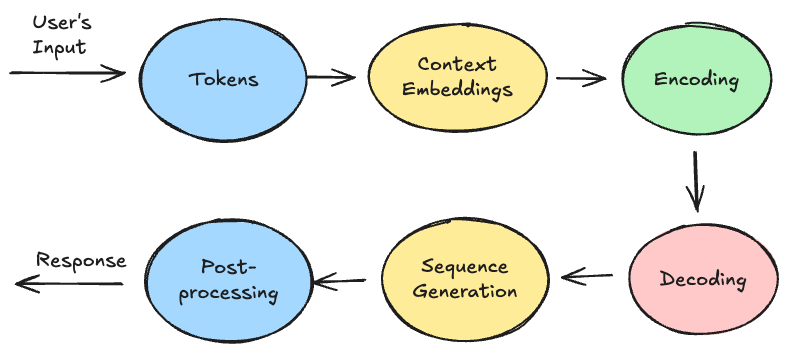
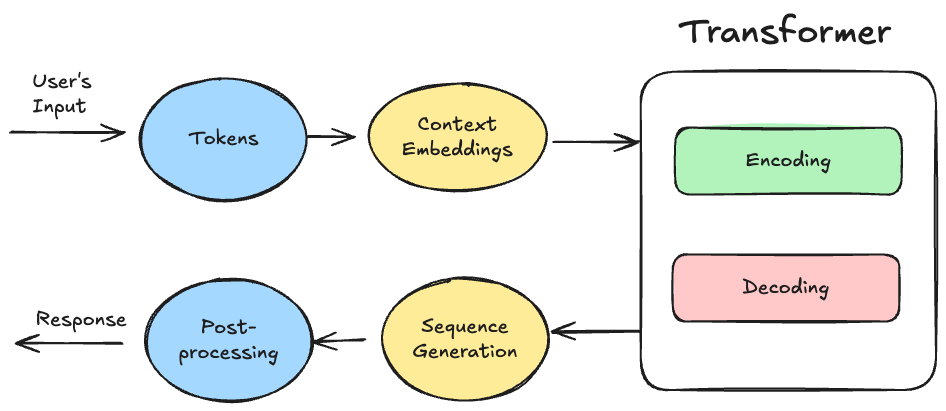
update ai workshop, modules 1, 2

diff --git a/ai-workshop-module-2/index.html b/ai-workshop-module-2/index.html
@@ -181,16 +181,6 @@ This process of cataloging pieces of a textual sequence is called **tokenizatio
 </aside></script></section><section data-markdown><script type="text/template"><!-- .slide: class="drop" -->
 <div class="" style="position: absolute; left: 0px; top: 0px; height: 900px; width: 1440px; min-height: 900px; display: flex; flex-direction: column; align-items: center; justify-content: center" absolute="true">
 
-### Practice time
-
-<img src="education-plan/Module_2/imgs/jupyter-logo.png" alt="" style="width: 500px; object-fit: fill">
-</div>
-
-<aside class="notes"><p>Link: <a href="http://localhost:8888/notebooks/examples/tokenization-embeddings.ipynb#Chunks-tokenezation">http://localhost:8888/notebooks/examples/tokenization-embeddings.ipynb#Chunks-tokenezation</a>
-Show the process of text tokenization</p>
-</aside></script></section><section data-markdown><script type="text/template"><!-- .slide: class="drop" -->
-<div class="" style="position: absolute; left: 0px; top: 0px; height: 900px; width: 1440px; min-height: 900px; display: flex; flex-direction: column; align-items: center; justify-content: center" absolute="true">
-
 ### What’s the difference between tokens and characters?
 
 > According to the ChatGPT LLM tokenizer, some general rules of thumb for defining tokens are that one token generally corresponds to ~4 characters of text for common English text, translating to roughly ¾ of a word (so 100 tokens ~= 75 words).
@@ -204,21 +194,22 @@ Show the process of text tokenization</p>
 </div></script></section><section data-markdown><script type="text/template"><!-- .slide: class="drop" -->
 <div class="" style="position: absolute; left: 0px; top: 0px; height: 900px; width: 1440px; min-height: 900px; display: flex; flex-direction: column; align-items: center; justify-content: center" absolute="true">
 
+### Practice time
+
+<img src="education-plan/Module_2/imgs/jupyter-logo.png" alt="" style="width: 500px; object-fit: fill">
+</div>
+
+<aside class="notes"><p>Link: <a href="http://localhost:8888/notebooks/examples/tokenization-embeddings.ipynb#Chunks-tokenezation">http://localhost:8888/notebooks/examples/tokenization-embeddings.ipynb#Chunks-tokenezation</a>
+Show the process of text tokenization</p>
+</aside></script></section><section data-markdown><script type="text/template"><!-- .slide: class="drop" -->
+<div class="" style="position: absolute; left: 0px; top: 0px; height: 900px; width: 1440px; min-height: 900px; display: flex; flex-direction: column; align-items: center; justify-content: center" absolute="true">
+
 ### What is Embedding?
 
 Embedding is a high-dimensional (768, 1536, etc) representation of data that captures the semantic meaning, relationships, and contextual information of the original input
 
 <img src="education-plan/Module_2/assets/Embeddings_1.png" alt="" style="object-fit: scale-down">
 </div></script></section><section data-markdown><script type="text/template"><!-- .slide: class="drop" -->
-<div class="" style="position: absolute; left: 0px; top: 0px; height: 900px; width: 1440px; min-height: 900px; display: flex; flex-direction: column; align-items: center; justify-content: center" absolute="true">
-
-### Practice time
-
-<img src="education-plan/Module_2/imgs/jupyter-logo.png" alt="" style="width: 500px; object-fit: fill">
-</div>
-
-<aside class="notes"><p>Show the process of text embedding</p>
-</aside></script></section><section data-markdown><script type="text/template"><!-- .slide: class="drop" -->
 <div class="" style="position: absolute; left: 0px; top: 0px; height: 900px; width: 1440px; min-height: 900px; display: flex; flex-direction: column; align-items: center; justify-content: center" absolute="true">
 
 ### What is high--dimension space?
@@ -264,7 +255,7 @@ A common way to define how 2 vectors are similar is to calculate a `cosine simil
 <img src="education-plan/Module_2/imgs/jupyter-logo.png" alt="" style="width: 500px; object-fit: fill">
 </div>
 
-<aside class="notes"><p>Show the process of text embedding</p>
+<aside class="notes"><p>Link: <a href="http://localhost:8888/notebooks/examples/tokenization-embeddings.ipynb">http://localhost:8888/notebooks/examples/tokenization-embeddings.ipynb</a></p>
 </aside></script></section><section data-markdown><script type="text/template"><!-- .slide: class="drop" -->
 <div class="" style="position: absolute; left: 0px; top: 0px; height: 900px; width: 1440px; min-height: 900px; display: flex; flex-direction: column; align-items: center; justify-content: center" absolute="true">
 
@@ -344,31 +335,17 @@ The **decoder** is responsible for generating output sequences, such as translat
 </div></script></section><section data-markdown><script type="text/template"><!-- .slide: class="drop" -->
 <div class="" style="position: absolute; left: 0px; top: 0px; height: 900px; width: 1440px; min-height: 900px; display: flex; flex-direction: column; align-items: center; justify-content: center" absolute="true">
 
-### Transformers Block Part 3
-
-<img src="education-plan/Module_2/diagrams/transformer-architecture-3.png" alt="" style="object-fit: scale-down">
-
-
-<div class="block">
-
-<!-- .element: style="font-size: 1.5rem" -->
-
-- The **encoder** reads the input sequence (e.g., a sentence in English) and outputs context-rich representations for each input token.
-- The **decoder** takes these encoder outputs and, along with its own self-attention mechanism, generates the output sequence (e.g., a translated sentence in French) step by step. It uses the encoded input sequence to inform its generation process.
-
-</div>
-</div></script></section><section data-markdown><script type="text/template"><!-- .slide: class="drop" -->
-<div class="" style="position: absolute; left: 0px; top: 0px; height: 900px; width: 1440px; min-height: 900px; display: flex; flex-direction: column; align-items: center; justify-content: center" absolute="true">
-
-### Attention Mechanism
+### Attention Mechanism 
 
 **Attention Mechanism**: The attention mechanism helps the model understand the context by assigning attention weights to each token in the sequence relative to others.
 
-[Attention Is All You Need](https://arxiv.org/pdf/1706.03762)
+[Attention Is All You Need 2017](https://arxiv.org/pdf/1706.03762)
 </div></script></section><section data-markdown><script type="text/template"><!-- .slide: class="drop" -->
 <div class="" style="position: absolute; left: 0px; top: 0px; height: 900px; width: 1440px; min-height: 900px; display: flex; flex-direction: column; align-items: center; justify-content: center" absolute="true">
 
 ### Attention Mechanism
+
+The main goal is to capture contextual information and relationships between words.
 
 <img src="education-plan/Module_2/assets/Attention_mechanism.png" alt="" style="width: 1000px; object-fit: fill">
 
@@ -379,6 +356,8 @@ The **decoder** is responsible for generating output sequences, such as translat
 <div class="" style="position: absolute; left: 0px; top: 0px; height: 900px; width: 1440px; min-height: 900px; display: flex; flex-direction: column; align-items: center; justify-content: center" absolute="true">
 
 ### Next word prediction
+
+Feed-forward neural network or MLP (Multilayer Perceptron) 
 
 Programmin is one ... 
 
@@ -398,6 +377,100 @@ Programmin is one ...
 | step       | < 0.01%           |
 | such       | < 0.01%           |
 | big        | < 0.01%           |
+
+</div>
+</div></script></section><section data-markdown><script type="text/template"><!-- .slide: class="drop" -->
+<div class="" style="position: absolute; left: 0px; top: 0px; height: 900px; width: 1440px; min-height: 900px; display: flex; flex-direction: column; align-items: center; justify-content: center" absolute="true">
+
+### Transformers Block Part 3
+
+<img src="education-plan/Module_2/diagrams/transformer-architecture-3.png" alt="" style="object-fit: scale-down">
+
+
+<div class="block">
+
+<!-- .element: style="font-size: 1.5rem" -->
+
+- The **encoder** reads the input sequence (e.g., a sentence in English) and outputs context-rich representations for each input token.
+- The **decoder** takes these encoder outputs and, along with its own self-attention mechanism, generates the output sequence (e.g., a translated sentence in French) step by step. It uses the encoded input sequence to inform its generation process.
+- The **encoder-decoder** attention layer helps the decoder focus on relevant parts of the input sentence.
+
+</div>
+</div></script></section><section data-markdown><script type="text/template"><!-- .slide: class="drop" -->
+<div class="" style="position: absolute; left: 0px; top: 0px; height: 900px; width: 1440px; min-height: 900px; display: flex; flex-direction: column; align-items: center; justify-content: center" absolute="true">
+
+### Encoder-only Models
+
+<div class="block">
+
+<!-- .element: style="font-size: 1.5rem; text-align: left" -->
+
+The transformer encoder architecture is used for tasks like text classification, where the model must classify a piece of text into one of several predefined categories, such as sentiment analysis, topic classification, or spam detection.
+
+ **Examples:** BERT, RoBERTa
+
+**What they can do:**
+
+- **Text classification:** Spam detection, sentiment analysis _(Input: a sentence, Output: a label like "positive" or "negative")_
+- **Named Entity Recognition (NER):** Extract entities like names, dates, locations from text.
+- **Question answering (extractive):** Given a context and a question, extract the correct answer from the context.
+
+**What they cannot do:**
+
+- **Generate text:** They cannot generate new sequences of text since they are designed to understand and encode existing text.  
+    _(Example: They can classify a sentence but cannot write a continuation of it.)_
+- **Translate text:** Since there's no decoder to generate output in another language.
+
+</div>
+</div></script></section><section data-markdown><script type="text/template"><!-- .slide: class="drop" -->
+<div class="" style="position: absolute; left: 0px; top: 0px; height: 900px; width: 1440px; min-height: 900px; display: flex; flex-direction: column; align-items: center; justify-content: center" absolute="true">
+
+### Decoder-only Models
+
+<div class="block">
+
+<!-- .element: style="font-size: 1.5rem; text-align: left" -->
+
+The transformer decoder architecture is used for tasks like language generation, where the model must generate a sequence of words based on an input prompt or context.
+
+**Examples:** GPT (Generative Pre-trained Transformer), GPT-2, GPT-3, GPT-4
+
+**What they can do:** 
+
+- **Text generation:** Generate coherent text given a prompt _(Input: a prompt like "Once upon a time", Output: a continuation like "there was a brave knight who...")_
+- **Summarization:** Summarize a given text by generating a shorter version _(Input: a paragraph, Output: a shorter summary)_
+- **Dialogue systems (chatbots):** Engage in conversations by generating appropriate responses.
+
+**What they cannot do:**
+
+- **Directly encode input for complex tasks like classification:** Decoder-only models don't inherently "understand" the entire input at once like encoder-only models. They work better when they need to generate something rather than analyze.
+- **Translate with high accuracy (compared to Encoder-Decoder models):** While they can translate text (e.g., GPT models can), they aren't as specialized for it as encoder-decoder models.
+
+</div>
+</div></script></section><section data-markdown><script type="text/template"><!-- .slide: class="drop" -->
+<div class="" style="position: absolute; left: 0px; top: 0px; height: 900px; width: 1440px; min-height: 900px; display: flex; flex-direction: column; align-items: center; justify-content: center" absolute="true">
+
+### Encoder-Decoder Models
+
+<div class="block">
+
+<!-- .element: style="font-size: 1.5rem; text-align: left" -->
+
+The transformer encoder-decoder architecture is used for tasks like language translation, where the model must take in a sentence in one language and output a sentence in another language.
+
+**Examples:** T5 (Text-To-Text Transfer Transformer), BART, Seq2Seq models with Attention
+
+**What they can do:**
+
+- **Machine Translation:** Given a sentence in one language, generate its translation in another language _(Input: "How are you?" in English, Output: "Як справи?" in Ukrainian)_
+- **Summarization:** Generate a summary of a given text _(Input: a long article, Output: a short summary)_
+- **Text generation:** Just like decoder-only models, they can generate text.
+- **Question answering (generative):** Generate answers based on given context and question.
+
+**What they cannot do:**
+
+- **Be as lightweight as encoder-only or decoder-only models:** Since they have both an encoder and a decoder, they require more memory and compute power.
+- **Generate very long sequences efficiently:** For extremely long text generation, decoder-only models (like GPT) tend to perform better.
 
 </div>
 </div></script></section><section data-markdown><script type="text/template"><!-- .slide: class="drop" -->
@@ -437,20 +510,20 @@ The whole process of LLM word prediction looks like this:
 </div></script></section><section data-markdown><script type="text/template"><!-- .slide: class="drop" -->
 <div class="" style="position: absolute; left: 0px; top: 0px; height: 900px; width: 1440px; min-height: 900px; display: flex; flex-direction: column; align-items: center; justify-content: center" absolute="true">
 
-### Sum up 
+### Sum up
 
 <div class="block">
 
 <!-- .element: style="font-size: 1.5rem" -->
 
 - **Tokenization**: The input text is split into smaller units (tokens).
-- **Embeddings**: Each token is first mapped  to an embedding vector. The initial token embeddings are passed through multiple layers of the network to create **contextual embeddings**
-- **Encoding**: The input is encoded, and relationships between tokens are processed via the **attention mechanism**.
-- **Decoding**: The model generates text sequentially, predicting one token at a time. 
+- &shy;<!-- .element: class="fragment" data-fragment-index="1" -->**Embeddings**: Each token is first mapped  to an embedding vector. The initial token embeddings are passed through multiple layers of the network to create **contextual embeddings**
+- &shy;<!-- .element: class="fragment" data-fragment-index="2" -->**Encoding**: The input is encoded, and relationships between tokens are processed via the **attention mechanism**.
+- &shy;<!-- .element: class="fragment" data-fragment-index="3" -->**Decoding**: The model generates text sequentially, predicting one token at a time. 
 	- For each token, the model outputs a probability distribution over the vocabulary
 	- **Token Selection**: Various sampling techniques (e.g., greedy search, beam search, top-k sampling, top-p sampling) are applied to choose the next token.
-- **Sequence Generation**: The selected token is added to the sequence, and the process repeats until the desired text length is achieved.
-- **Post-processing**: Optional steps for refining the output, such as grammar correction and punctuation adjustment.
+- &shy;<!-- .element: class="fragment" data-fragment-index="4" -->**Sequence Generation**: The selected token is added to the sequence, and the process repeats until the desired text length is achieved.
+- &shy;<!-- .element: class="fragment" data-fragment-index="5" -->**Post-processing**: Optional steps for refining the output, such as grammar correction and punctuation adjustment.
 
 </div>
 </div></script></section></section><section ><section data-markdown><script type="text/template"><!-- .slide: class="drop" -->
@@ -466,7 +539,7 @@ The whole process of LLM word prediction looks like this:
 
 The "size" of a Large Language Model (LLM) typically refers to the number of **parameters** it has.
 
-<img src="education-plan/Module_2/diagrams/llm-sizes.excalidraw.svg" alt="" style="width: .png | 800px; object-fit: fill">
+<img src="education-plan/Module_2/diagrams/llm-sizes.excalidraw.svg" alt="" style="width: .png | 500px; object-fit: fill">
 </div></script></section><section data-markdown><script type="text/template"><!-- .slide: class="drop" -->
 <div class="" style="position: absolute; left: 0px; top: 0px; height: 900px; width: 1440px; min-height: 900px; display: flex; flex-direction: column; align-items: center; justify-content: center" absolute="true">
 
@@ -611,6 +684,10 @@ Prompt: &quot;Please give me the recipe for curry chicken&quot;</p>
 </aside></script></section><section data-markdown><script type="text/template"><!-- .slide: class="drop" -->
 <div class="" style="position: absolute; left: 0px; top: 0px; height: 900px; width: 1440px; min-height: 900px; display: flex; flex-direction: column; align-items: center; justify-content: center" absolute="true">
 
+TODO: add Hallucinations example
+</div></script></section><section data-markdown><script type="text/template"><!-- .slide: class="drop" -->
+<div class="" style="position: absolute; left: 0px; top: 0px; height: 900px; width: 1440px; min-height: 900px; display: flex; flex-direction: column; align-items: center; justify-content: center" absolute="true">
+
 ### LLMs Hallucinations
 
 - LLMs are just trying to guess the next word with limited or no understanding of what they’re "talking about"
@@ -677,7 +754,7 @@ https://huggingface.co
 
 ### Hugging Face
 
-<img src="education-plan/Module_1/imgs/hugging-face-llama-card.png" alt="" style="object-fit: scale-down">
+<img src="education-plan/Module_1/imgs/hugging-face-llama-card.png" alt="" style="width: 1000px; object-fit: fill">
 
 
 https://huggingface.co/meta-llama/Llama-3.2-1B
@@ -689,7 +766,7 @@ https://huggingface.co/meta-llama/Llama-3.1-8B-Instruct
 
 https://huggingface.co/
 
-<img src="education-plan/Module_2/assets/Hugging_face.png" alt="" style="object-fit: scale-down">
+<img src="education-plan/Module_2/assets/Hugging_face.png" alt="" style="width: 900px; object-fit: fill">
 
 
 > "The platform where the machine learning community collaborates on models, datasets, and applications"
@@ -698,7 +775,7 @@ https://huggingface.co/
 
 ### Open AI models cost
 
-<img src="education-plan/Module_1/imgs/langsmith-preview.png" alt="" style="object-fit: scale-down">
+<img src="education-plan/Module_1/imgs/langsmith-preview.png" alt="" style="width: 1000px; object-fit: fill">
 </div></script></section></section><section  data-markdown><script type="text/template"><!-- .slide: class="drop" -->
 <div class="" style="position: absolute; left: 0px; top: 0px; height: 900px; width: 1440px; min-height: 900px; display: flex; flex-direction: column; align-items: center; justify-content: center" absolute="true">
 

diff --git a/ai-workshop-module-1/index.html b/ai-workshop-module-1/index.html
@@ -93,20 +93,25 @@
 </div></script></section><section data-markdown><script type="text/template"><!-- .slide: class="drop" -->
 <div class="" style="position: absolute; left: 0px; top: 0px; height: 900px; width: 1440px; min-height: 900px; display: flex; flex-direction: column; align-items: center; justify-content: center" absolute="true">
 
-## Disclaimer
+### Workshop Overview
 
-This course does not require a background in data engineering. Our focus is to provide developers with a ground-up knowledge of building and integrating LLM solutions
+- **Module 1:** Introduction to the AI and LLMs concepts <!-- .element: style="color: green" -->
+- &shy;<!-- .element: class="fragment" data-fragment-index="1" -->**Module 2:** LLMs architecture, characteristics, parameters; Working with Local LLMS
+- &shy;<!-- .element: class="fragment" data-fragment-index="2" -->**Module 3:** Prompt Engineering
+- &shy;<!-- .element: class="fragment" data-fragment-index="3" -->**Module 4:** Extending LLM Knowledge with External Data
+- &shy;<!-- .element: class="fragment" data-fragment-index="4" -->**Module 5:** Agents. Use LLM to choose a sequence of actions to take
+- &shy;<!-- .element: class="fragment" data-fragment-index="5" -->**Module 6:** Evaluate & Trace LLM Application with LangSmith
+- &shy;<!-- .element: class="fragment" data-fragment-index="6" -->**Module 7:** Showcase of LLM Integration into JavaScript Project
 </div></script></section><section data-markdown><script type="text/template"><!-- .slide: class="drop" -->
 <div class="" style="position: absolute; left: 0px; top: 0px; height: 900px; width: 1440px; min-height: 900px; display: flex; flex-direction: column; align-items: center; justify-content: center" absolute="true">
 
-## What this course is about
+## Disclaimer
 
-- Comprehensive overview of LLM capabilities, architecture, and applications
-- &shy;<!-- .element: class="fragment" data-fragment-index="1" -->Accelerating developer routines with LLMS: IDEs and plugins, terminal integration, local LLM execution, etc. 
-- &shy;<!-- .element: class="fragment" data-fragment-index="2" -->Mastering different prompting techniques based on real examples
-- &shy;<!-- .element: class="fragment" data-fragment-index="3" -->Building LLM-powered applications: assistants, chatbots, agents, etc.
-- &shy;<!-- .element: class="fragment" data-fragment-index="4" -->Diving into LangChain and LangGraph
-- &shy;<!-- .element: class="fragment" data-fragment-index="5" -->Tracing and evaluation of LLM applications with LangSmith
+This course does not require a background in data engineering. Our focus is to provide developers with a ground-up knowledge of building and integrating LLM solutions
+</div></script></section><section data-markdown><script type="text/template"><!-- .slide: class="drop" data-visibility="hidden" -->
+<div class="" style="position: absolute; left: 0px; top: 0px; height: 900px; width: 1440px; min-height: 900px; display: flex; flex-direction: column; align-items: center; justify-content: center" absolute="true">
+
+
 </div></script></section><section data-markdown><script type="text/template"><!-- .slide: class="drop" -->
 <div class="" style="position: absolute; left: 0px; top: 0px; height: 900px; width: 1440px; min-height: 900px; display: flex; flex-direction: column; align-items: center; justify-content: center" absolute="true">
 
@@ -133,23 +138,24 @@ This course does not require a background in data engineering. Our focus is to p
 </div>
 
 <aside class="notes"><p>TODO: add photos and a short intro</p>
-</aside></script></section></section><section ><section data-markdown><script type="text/template"><!-- .slide: class="drop" -->
-<div class="" style="position: absolute; left: 0px; top: 0px; height: 900px; width: 1440px; min-height: 900px; display: flex; flex-direction: column; align-items: center; justify-content: center" absolute="true">
-
-### Workshop Overview
-
-- **Module 1:** Introduction to the AI and LLMs concepts <!-- .element: style="color: green" -->
-- &shy;<!-- .element: class="fragment" data-fragment-index="1" -->**Module 2:** LLMs architecture, characteristics, parameters; Working with Local LLMS
-- &shy;<!-- .element: class="fragment" data-fragment-index="2" -->**Module 3:** Prompt Engineering
-- &shy;<!-- .element: class="fragment" data-fragment-index="3" -->**Module 4:** Extending LLM Knowledge with External Data
-- &shy;<!-- .element: class="fragment" data-fragment-index="4" -->**Module 5:** Agents. Use LLM to choose a sequence of actions to take
-- &shy;<!-- .element: class="fragment" data-fragment-index="5" -->**Module 6:** Evaluate & Trace LLM Application with LangSmith
-- &shy;<!-- .element: class="fragment" data-fragment-index="6" -->**Module 7:** Showcase of LLM Integration into JavaScript Project
-</div></script></section><section data-markdown><script type="text/template"><!-- .slide: class="drop" -->
+</aside></script></section></section><section  data-markdown><script type="text/template"><!-- .slide: class="drop" -->
 <div class="" style="position: absolute; left: 0px; top: 0px; height: 900px; width: 1440px; min-height: 900px; display: flex; flex-direction: column; align-items: center; justify-content: center" absolute="true">
 
 ## Module 1:  Introduction to AI and LLMs
-</div></script></section></section><section ><section data-markdown><script type="text/template"><!-- .slide: class="drop" -->
+
+Agenda
+
+- Introduction to GenAI and LLM concepts
+- &shy;<!-- .element: class="fragment" data-fragment-index="1" -->Emergent abilities of LLMs and their limitations
+- &shy;<!-- .element: class="fragment" data-fragment-index="2" -->Enhancing developer's productivity with LLM tools and integrations.
+- &shy;<!-- .element: class="fragment" data-fragment-index="3" -->ELEKS AI Policy
+</div></script></section><section ><section data-markdown><script type="text/template"><!-- .slide: class="drop" -->
+<div class="" style="position: absolute; left: 0px; top: 0px; height: 900px; width: 1440px; min-height: 900px; display: flex; flex-direction: column; align-items: center; justify-content: center" absolute="true">
+
+### GenAI
+
+<iframe src="https://elekscloud-my.sharepoint.com/personal/arsen_slyusarchuk_eleks_com/_layouts/15/embed.aspx?UniqueId=6a7c08f4-30f2-4ed8-8352-97f2fd4c9962&embed=%7B%22ust%22%3Atrue%2C%22hv%22%3A%22CopyEmbedCode%22%7D&referrer=StreamWebApp&referrerScenario=EmbedDialog.Create" width="1280" height="720" frameborder="0" scrolling="no" allowfullscreen title="Welcome Video"></iframe>
+</div></script></section><section data-markdown><script type="text/template"><!-- .slide: class="drop" -->
 <div class="" style="position: absolute; left: 0px; top: 0px; height: 900px; width: 1440px; min-height: 900px; display: flex; flex-direction: column; align-items: center; justify-content: center" absolute="true">
 
 ### What is GenAI (Generative Artificial Intelligence)
@@ -326,7 +332,7 @@ Strawberry problem
 
 > OpenAI is an American artificial intelligence research organization founded in December 2015. CEO: Sam Altman.
 
-<img src="education-plan/Module_1/imgs/open-ai-preview-1.png" alt="" style="width: 500px; object-fit: fill">
+<img src="education-plan/Module_1/imgs/open-ai-preview-1.png" alt="" style="width: 400px; object-fit: fill">
 
 
 OpenAI is not only about ChatGPT. It's much more!
@@ -362,7 +368,7 @@ OpenAI is not only about ChatGPT. It's much more!
 
 ### Llama models
 
-<img src="education-plan/Module_1/imgs/olama-sizes.png" alt="" style="object-fit: scale-down">
+<img src="education-plan/Module_1/imgs/olama-sizes.png" alt="" style="width: 1100px; object-fit: fill">
 
 
 https://www.llama.com/llama-downloads
@@ -373,9 +379,9 @@ https://www.llama.com/llama-downloads
 
 [ELEKS Artificial Intelligence Usage](https://elekscloud.sharepoint.com/sites/GenAI/SitePages/Eleks-GenAI-Tools.aspx)
 
-<img src="education-plan/Module_1/imgs/eleks-ai-policy-1.png" alt="" style="object-fit: scale-down">
+<img src="education-plan/Module_1/imgs/eleks-ai-policy-1.png" alt="" style="width: 1400px; object-fit: fill">
 
-<img src="education-plan/Module_1/imgs/eleks-ai-policy-2.png" alt="" style="object-fit: scale-down">
+<img src="education-plan/Module_1/imgs/eleks-ai-policy-2.png" alt="" style="width: 1400px; object-fit: fill">
 </div></script></section><section data-markdown><script type="text/template"><!-- .slide: class="drop" -->
 <div class="" style="position: absolute; left: 0px; top: 0px; height: 900px; width: 1440px; min-height: 900px; display: flex; flex-direction: column; align-items: center; justify-content: center" absolute="true">
 
@@ -413,7 +419,7 @@ https://lmstudio.ai
 
 ### Github Copilot VSCode plugins
 
-<img src="education-plan/Module_1/imgs/github-copilot-vscode-plugin.png" alt="" style="object-fit: scale-down">
+<img src="education-plan/Module_1/imgs/github-copilot-vscode-plugin.png" alt="" style="width: 1100px; object-fit: fill">
 </div></script></section><section data-markdown><script type="text/template"><!-- .slide: class="drop" -->
 <div class="" style="position: absolute; left: 0px; top: 0px; height: 900px; width: 1440px; min-height: 900px; display: flex; flex-direction: column; align-items: center; justify-content: center" absolute="true">
 
@@ -553,7 +559,7 @@ ChatGPT + Vim
 
 <img src="education-plan/Module_1/imgs/obsidian-logo.png" alt="" style="width: 100px; object-fit: fill">
 
-[Obsidian](https://obsidian.md/)
+[Obsidian](https://obsidian.md)
 </div></script></section><section data-markdown><script type="text/template"><!-- .slide: class="drop" -->
 <div class="" style="position: absolute; left: 0px; top: 0px; height: 900px; width: 1440px; min-height: 900px; display: flex; flex-direction: column; align-items: center; justify-content: center" absolute="true">
 
